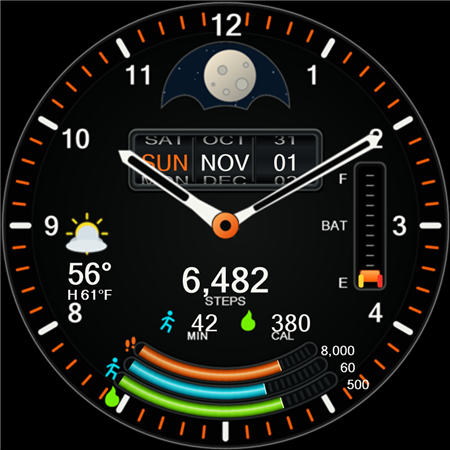
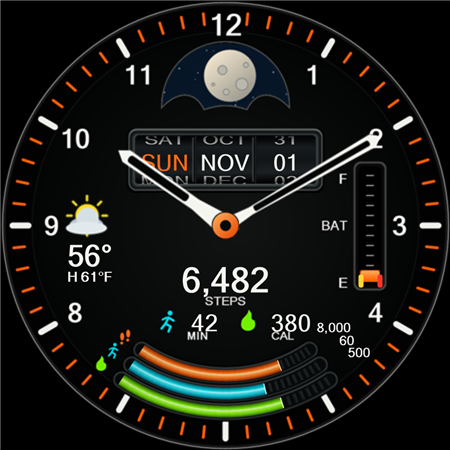
Align activity symbols and goals with tracks and raise weather

Changed region(s): [[0.1244, 0.4356, 0.2489, 0.6844], [0.6844, 0.7156, 0.84, 0.8711], [0.2178, 0.7156, 0.3111, 0.9022]]

diff --git a/docs/validation.md b/docs/validation.md
@@ -1,7 +1,7 @@
 # Validation record
 
 2026-11-01. Windows, Android SDK 36 / build-tools 36.0.0, Android Studio JDK 25,
-Gradle 9.3.1, AGP 9.1.1. Version 0.4.0 was installed and activated on the
+Gradle 9.3.1, AGP 9.1.1. Version 0.4.1 was installed and rendered on the
 physical SM-R950. Awake rendering, live step text/gauge, and native weather
 current temperature / high / condition were observed. Goal synchronization,
 source-app comparisons, extended ambient behavior, and battery-life checks are
@@ -19,7 +19,7 @@ pending. Ambient rendering and Samsung display offload were observed on-device.
 | Google WFF memory evaluator | Passed 10 MiB active / 4 MiB ambient budgets |
 | Maximum active decoded-resource estimate | 4,356,632 bytes (4.15 MiB) |
 | Maximum ambient decoded-resource estimate | 1,645,872 bytes (1.57 MiB) |
-| Physical watch install / activation / awake rendering | Passed with 0.4.0; weekday/month/date order and stronger tick |
+| Physical watch install / activation / awake rendering | Passed with 0.4.1; activity symbols/targets follow the tracks and weather clears the 8 |
 | Mechanical tick motion | Native 180 ms Tick, strength 0.5; about 1.4–1.5 degrees of overshoot and return observed |
 | Ambient rendering | Orange hands, selected calendar and battery; white hour markers on black; captured while Dozing with display offload active |
 | Samsung steps payload | Live RANGED_VALUE observed from Samsung Health steps service; explicit goal not established |
@@ -90,3 +90,13 @@ and activity graphics are absent in ambient. The physical watch reported
 Dozing and active display offload when its ambient screenshot was captured.
 The preview renderer uses typographic text bounds to avoid losing the final
 letter when Windows substitutes a wider font for unavailable Arial Narrow.
+
+Version 0.4.1 places the left activity symbols on their respective 150/168/186
+unit radii beyond the track ends. The runner and flame are reduced to keep the
+symbols separate. Right-side target labels are centered on those same radii;
+geometry checks allow less than one unit of rounding error. The minute slot's
+distinct editor selection point follows the runner to (110,350). Both weather
+and the alternative custom inset move up 18 units, leaving a clear gap above
+the hour 8. A physical-watch screenshot confirms the new layout with live steps,
+weather, and unavailable-goal dashes. Ambient artwork is unchanged; its recorded
+device verification remains from 0.4.0. Decoded-resource estimates are unchanged.

diff --git a/docs/device-acceptance.md b/docs/device-acceptance.md
@@ -1,12 +1,18 @@
 # Watch6 device acceptance
 
-Status: **0.4.0 installed, activated, and rendering on the SM-R950** on
+Status: **0.4.1 installed and rendering on the SM-R950** on
 2026-11-01. ADB activation succeeded and an awake screenshot confirmed the
 analog hands, moon disc, correct SUN / NOV / 01 drums, battery slider, live
 steps, and native current temperature / daily high / weather icon. Weather
 initially showed the unavailable state, then populated without changing the
 selected mode. The step source resolved to Samsung Health's steps service and
 returned `RANGED_VALUE`; its explicit goal remains unknown.
+
+The 0.4.1 screenshot confirms the activity symbols and target/dash labels follow
+their concentric track radii. The weather inset sits 18 units higher, separating
+its high-temperature line from the hour 8. The minute editor selection point
+moves to (110,350) at the left side of the smaller cyan runner. Ambient graphics
+are unchanged from 0.4.0; the ambient observations below are from that version.
 
 The 0.2.0 awake screenshot also confirms the activity channels are concentric
 with the hand spindle, with metallic orange progress and a sharp cut edge over
